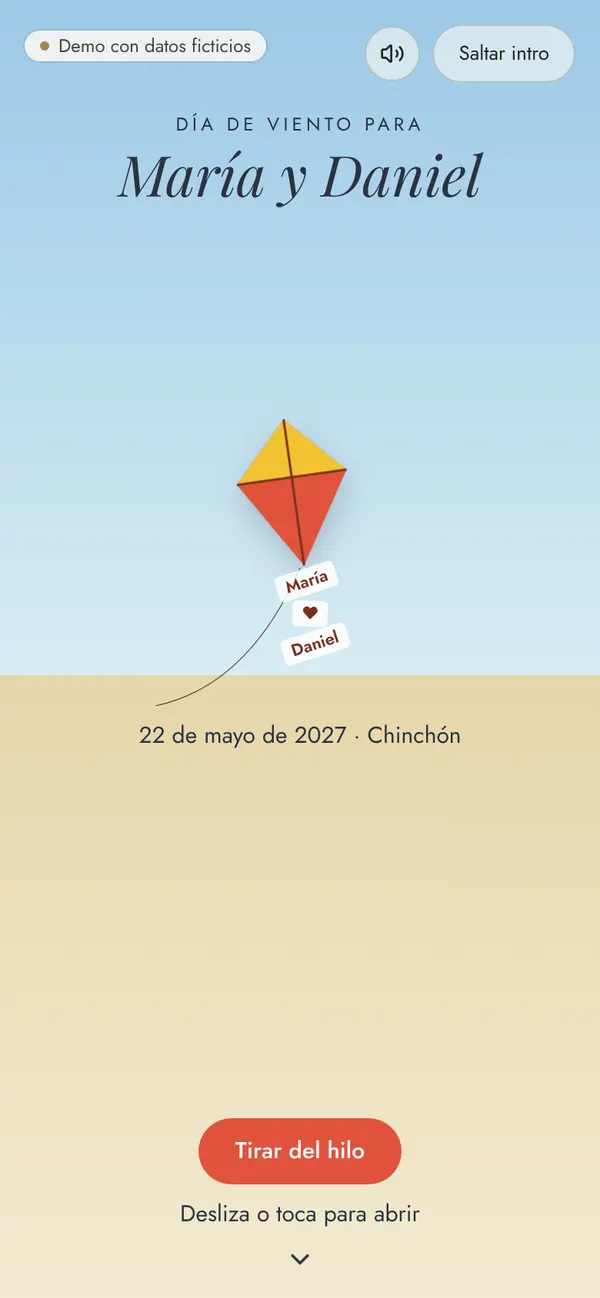
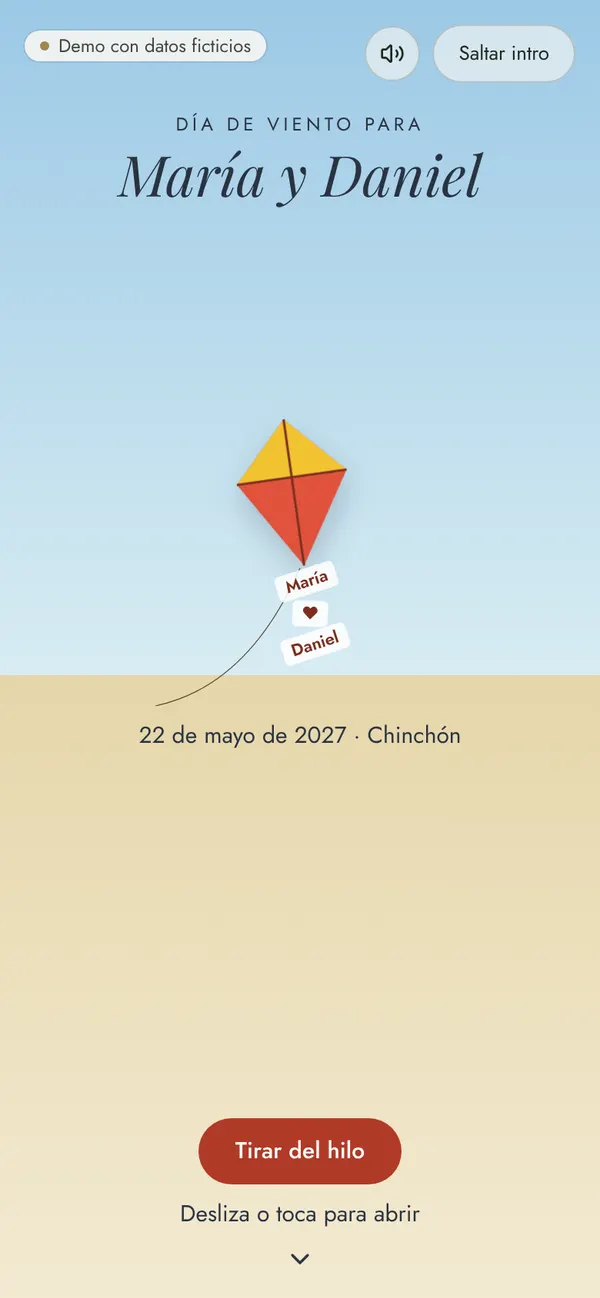
fix: contraste del botón de la cometa
Claude-Session: https://claude.ai/code/session_01XMPMfEBGZ9oi7tKEe9bDrZ

Changed region(s): [[0.33, 0.8629, 0.69, 0.9245]]

diff --git a/src/features/invitation/cover/concepts-new11.tsx b/src/features/invitation/cover/concepts-new11.tsx
@@ -114,7 +114,7 @@ function KiteCover({ event, onOpen, reduce }: ConceptProps) {
             onPointerDown={stop}
             onClick={pull}
             disabled={flying}
-            className="mt-3 rounded-full bg-[#e0533d] px-6 py-2.5 text-[0.9375rem] font-medium text-white disabled:opacity-70"
+            className="mt-3 rounded-full bg-[#b03a28] px-6 py-2.5 text-[0.9375rem] font-medium text-white disabled:opacity-70"
           >
             {flying ? "¡Vuela!" : "Tirar del hilo"}
           </button>
